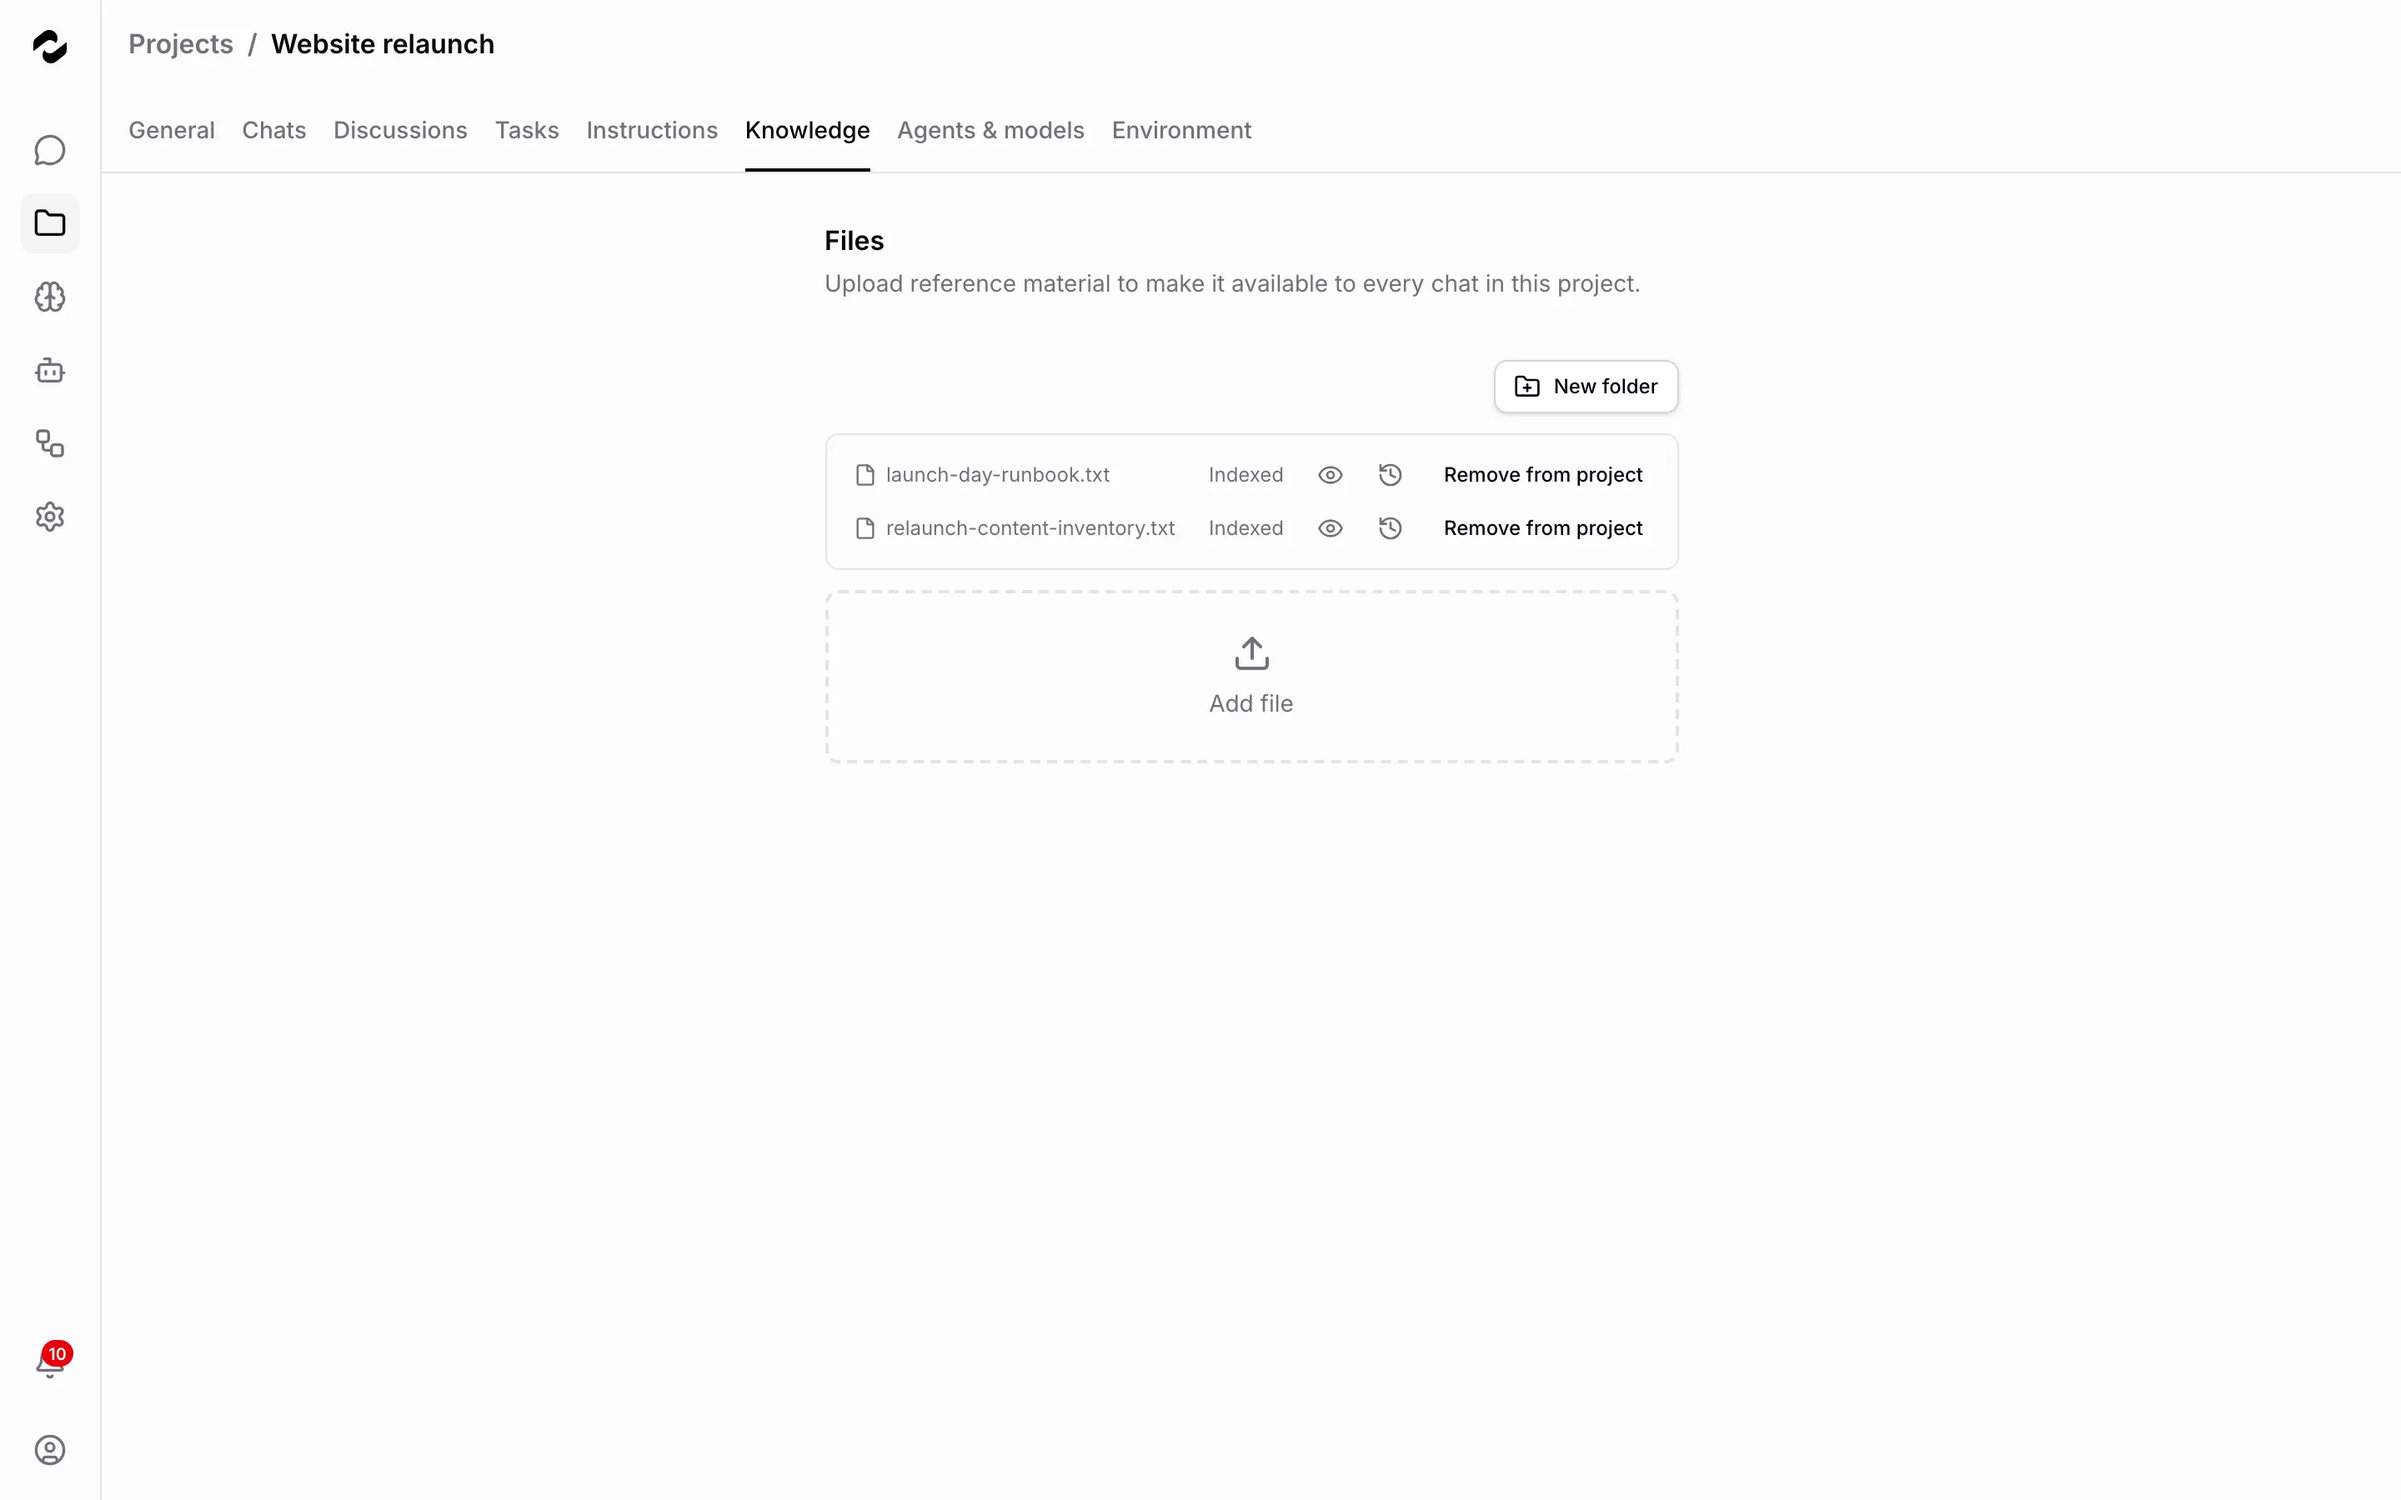
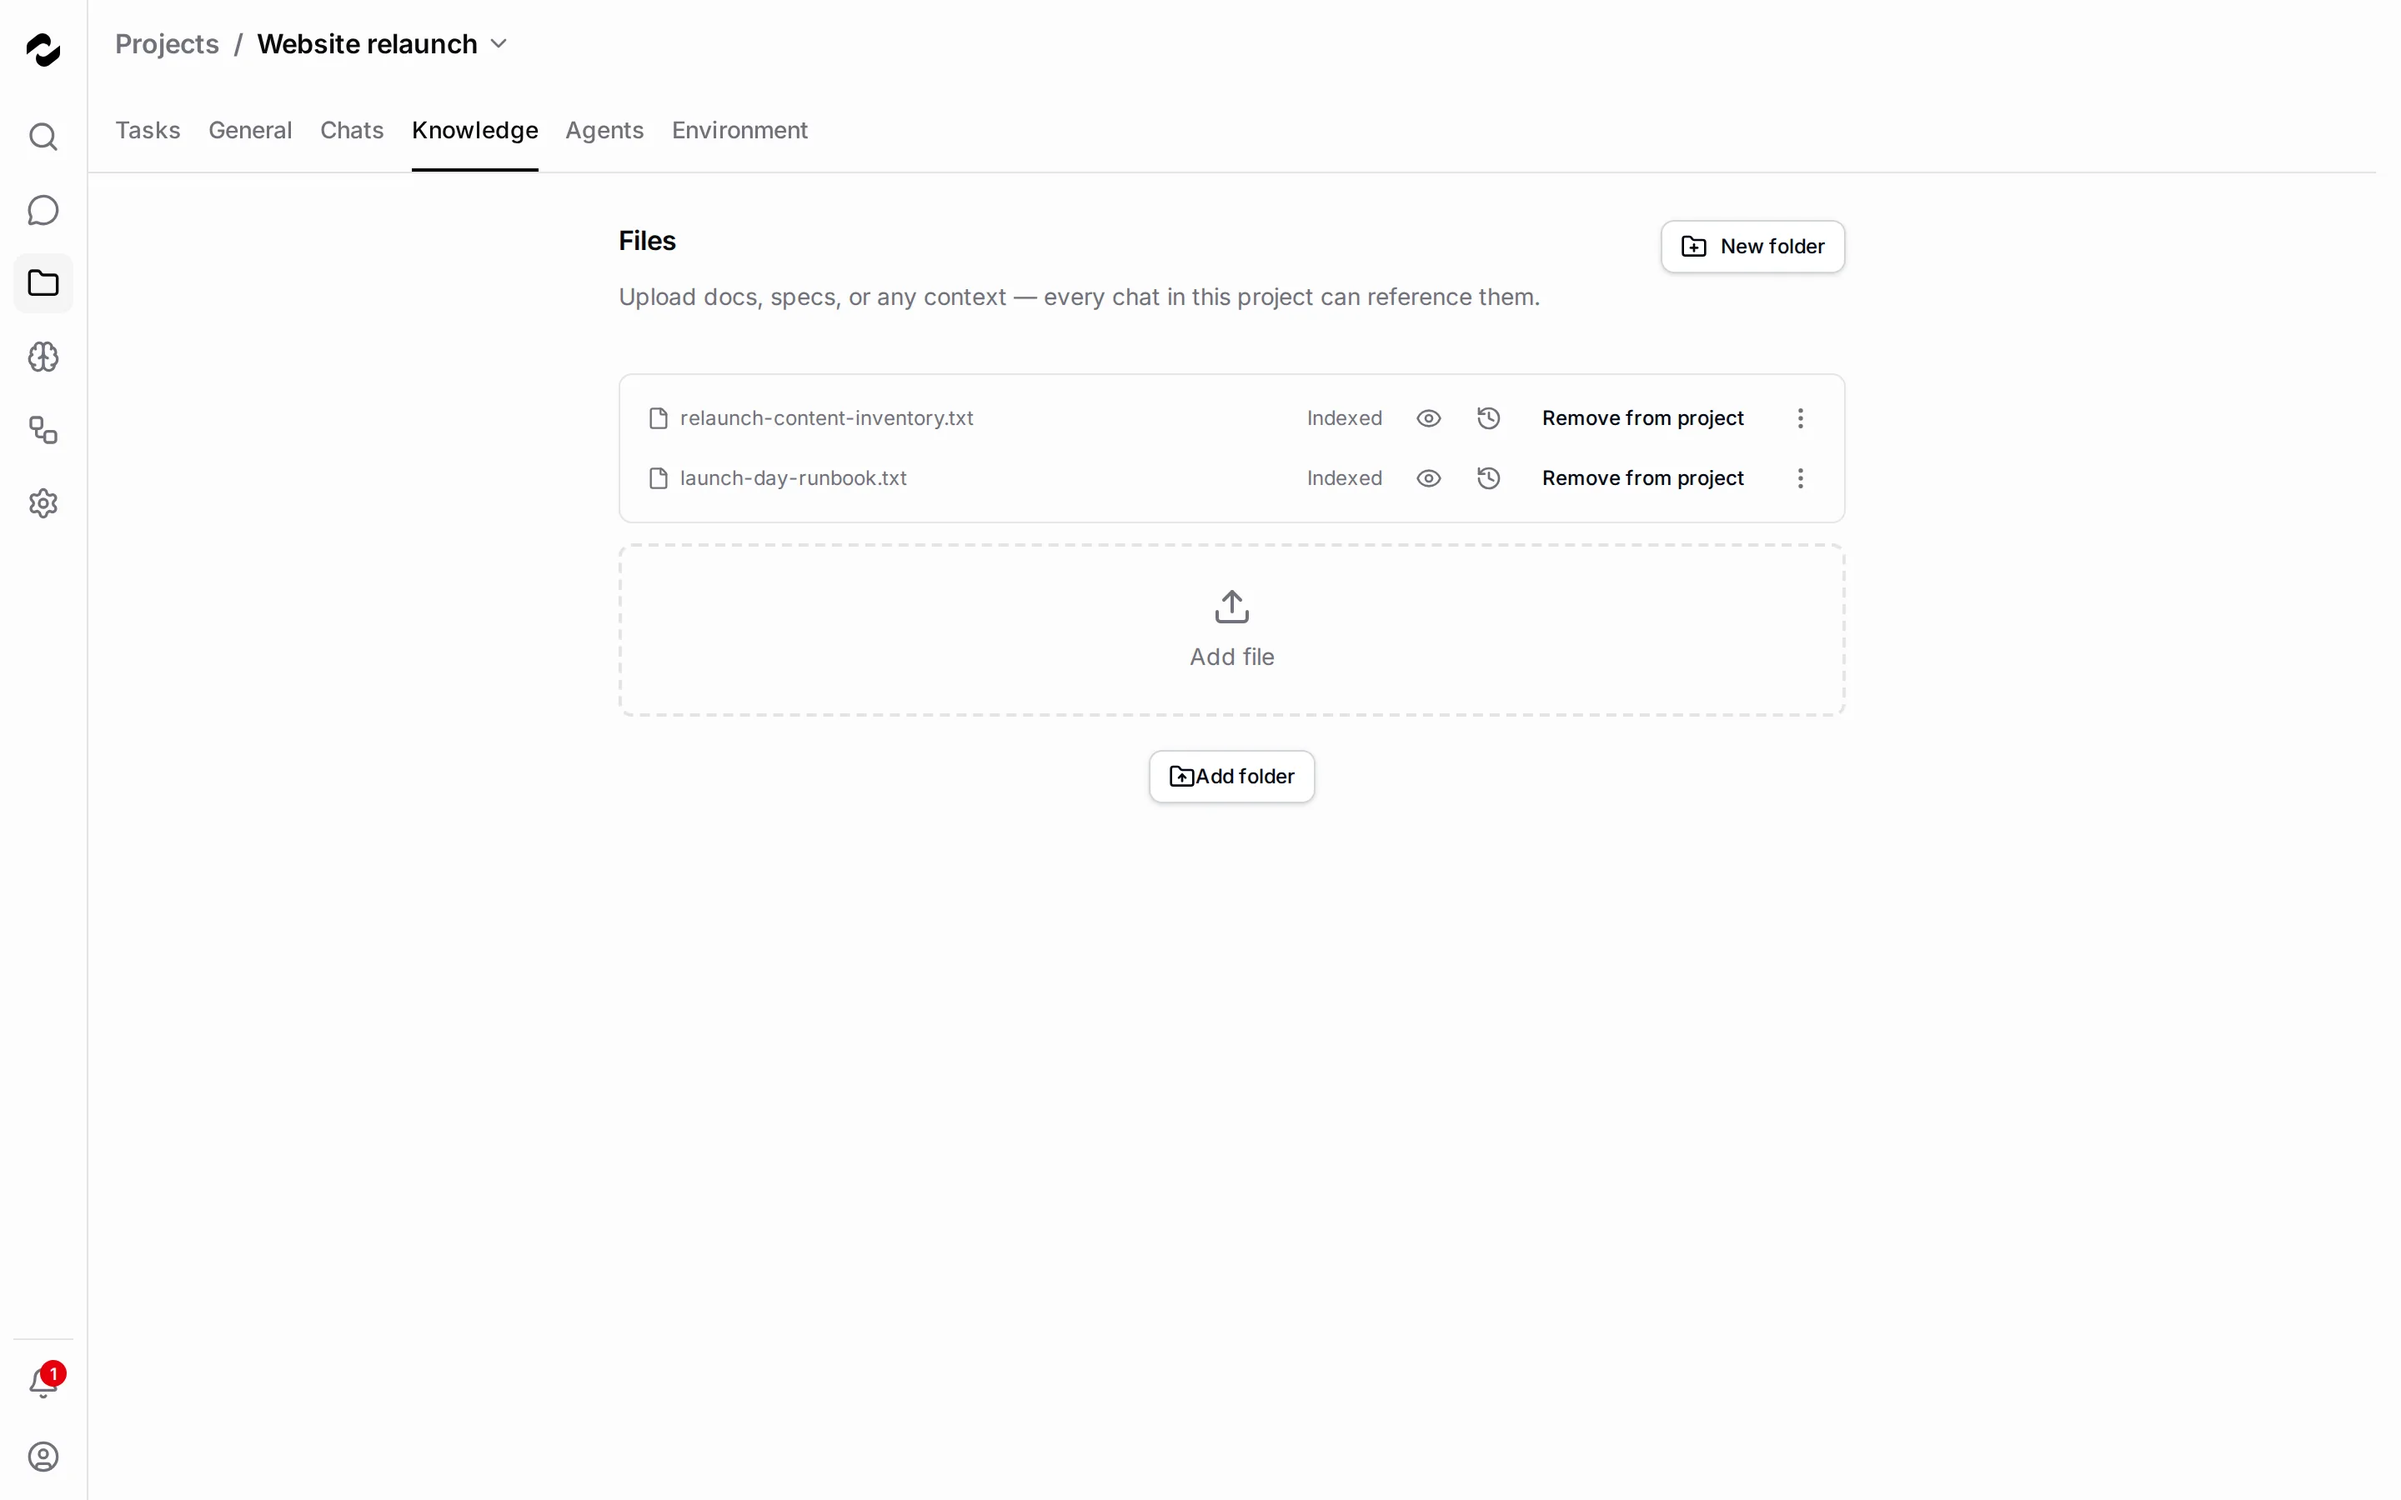
docs: recapture the knowledge screenshots
Regenerate project-knowledge-files and documents-list through
`bun run docs:screenshots` against the hermetic docs-demo stack, with
the knowledge-db back on a healthy BM25 index (#3212): every seeded
file reaches Indexed through the product's own path — the org's
embedding model under Settings > Data residency, then each row's
Retry indexing button.

The Documents tab now also lists the markdown documents behind the
knowledge entries (0.5 no longer files them into the "Knowledge
entries" folder), so the documents-list captions name them in all
three locales.

diff --git a/docs/fr/platform/knowledge/documents.md b/docs/fr/platform/knowledge/documents.md
@@ -7,7 +7,7 @@ L’onglet Documents est la surface fichiers de la base de connaissances. Les é
 
 <Frame caption="La table des documents — taille, source, statut RAG et portée d’équipe par fichier.">
 
-![L’onglet Documents de la base de connaissances listant trois fichiers texte téléversés avec les colonnes taille, source, statut RAG et équipes.](/images/get-started/documents-list.webp)
+![L’onglet Documents de la base de connaissances listant trois fichiers texte téléversés et les trois documents Markdown des entrées de connaissances, avec les colonnes taille, source, statut RAG et équipes.](/images/get-started/documents-list.webp)
 
 </Frame>
 

diff --git a/docs/fr/platform/knowledge/overview.md b/docs/fr/platform/knowledge/overview.md
@@ -13,7 +13,7 @@ Tu préfères regarder d’abord ? L’épisode 3 parcourt toute la bibliothèqu
 
 <Frame caption="L’onglet Documents — le coin le plus utilisé de la base de connaissances.">
 
-![L’onglet Documents de la base de connaissances listant trois fichiers texte téléversés avec les colonnes taille, source, statut RAG et équipes.](/images/get-started/documents-list.webp)
+![L’onglet Documents de la base de connaissances listant trois fichiers texte téléversés et les trois documents Markdown des entrées de connaissances, avec les colonnes taille, source, statut RAG et équipes.](/images/get-started/documents-list.webp)
 
 </Frame>
 

diff --git a/docs/de/platform/knowledge/documents.md b/docs/de/platform/knowledge/documents.md
@@ -7,7 +7,7 @@ Der Dokumente-Tab ist die Dateifläche der Wissensdatenbank. Redakteure laden Da
 
 <Frame caption="Die Dokumente-Tabelle — Größe, Quelle, RAG-Status und Team-Bindung pro Datei.">
 
-![Der Dokumente-Tab des Wissensbereichs mit drei hochgeladenen Textdateien samt Spalten für Größe, Quelle, RAG-Status und Team.](/images/get-started/documents-list.webp)
+![Der Dokumente-Tab des Wissensbereichs mit drei hochgeladenen Textdateien und den drei Markdown-Dokumenten hinter den Wissenseinträgen, samt Spalten für Größe, Quelle, RAG-Status und Team.](/images/get-started/documents-list.webp)
 
 </Frame>
 

diff --git a/docs/de/platform/knowledge/overview.md b/docs/de/platform/knowledge/overview.md
@@ -13,7 +13,7 @@ Lieber erst zusehen? Episode 3 geht die ganze Bibliothek in gut drei Minuten dur
 
 <Frame caption="Der Dokumente-Tab — die meistgenutzte Ecke der Wissensdatenbank.">
 
-![Der Dokumente-Tab des Wissensbereichs mit drei hochgeladenen Textdateien samt Spalten für Größe, Quelle, RAG-Status und Team.](/images/get-started/documents-list.webp)
+![Der Dokumente-Tab des Wissensbereichs mit drei hochgeladenen Textdateien und den drei Markdown-Dokumenten hinter den Wissenseinträgen, samt Spalten für Größe, Quelle, RAG-Status und Team.](/images/get-started/documents-list.webp)
 
 </Frame>
 

diff --git a/docs/en/platform/knowledge/documents.md b/docs/en/platform/knowledge/documents.md
@@ -7,7 +7,7 @@ The Documents tab is the knowledge base's file surface. Editors upload files, Ta
 
 <Frame caption="The Documents table — size, source, RAG status, and team scope per file.">
 
-![The Knowledge area's Documents tab listing three uploaded text files with size, source, RAG status, and team columns.](/images/get-started/documents-list.webp)
+![The Knowledge area's Documents tab listing three uploaded text files and the three markdown documents behind the knowledge entries, with size, source, RAG status, and team columns.](/images/get-started/documents-list.webp)
 
 </Frame>
 

diff --git a/docs/fr/get-started/members.md b/docs/fr/get-started/members.md
@@ -23,7 +23,7 @@ Les connaissances persistent d’un chat à l’autre, et les réponses les cite
 
 <Frame caption="Le tableau Documents après quelques téléversements.">
 
-![Le tableau des documents de la section Connaissances listant trois fichiers texte téléversés avec leur statut d’indexation.](/images/get-started/documents-list.webp)
+![Le tableau des documents de la section Connaissances listant trois fichiers texte téléversés et les documents Markdown des entrées de connaissances, avec leur statut d’indexation.](/images/get-started/documents-list.webp)
 
 </Frame>
 

diff --git a/docs/en/platform/knowledge/overview.md b/docs/en/platform/knowledge/overview.md
@@ -13,7 +13,7 @@ Prefer to watch first? Episode 3 walks the whole library in three minutes — in
 
 <Frame caption="The Documents tab — the most-used corner of the knowledge base.">
 
-![The Knowledge area's Documents tab listing three uploaded text files with size, source, RAG status, and team columns.](/images/get-started/documents-list.webp)
+![The Knowledge area's Documents tab listing three uploaded text files and the three markdown documents behind the knowledge entries, with size, source, RAG status, and team columns.](/images/get-started/documents-list.webp)
 
 </Frame>
 

diff --git a/docs/de/get-started/members.md b/docs/de/get-started/members.md
@@ -23,7 +23,7 @@ Wissen überdauert jeden Chat und zitiert sich in den Antworten selbst. Soll ein
 
 <Frame caption="Die Dokumente-Tabelle nach ein paar Uploads.">
 
-![Die Dokumente-Tabelle im Bereich Wissen mit drei hochgeladenen Textdateien und ihrem Indizierungsstatus.](/images/get-started/documents-list.webp)
+![Die Dokumente-Tabelle im Bereich Wissen mit drei hochgeladenen Textdateien, den Markdown-Dokumenten der Wissenseinträge und ihrem Indizierungsstatus.](/images/get-started/documents-list.webp)
 
 </Frame>
 

diff --git a/docs/en/get-started/members.md b/docs/en/get-started/members.md
@@ -23,7 +23,7 @@ Knowledge persists across every chat and cites itself in the answers. To make a 
 
 <Frame caption="The Documents table after a few uploads.">
 
-![The Knowledge Documents table listing three uploaded text files with their indexing status.](/images/get-started/documents-list.webp)
+![The Knowledge Documents table listing three uploaded text files and the knowledge entries' markdown documents with their indexing status.](/images/get-started/documents-list.webp)
 
 </Frame>
 
